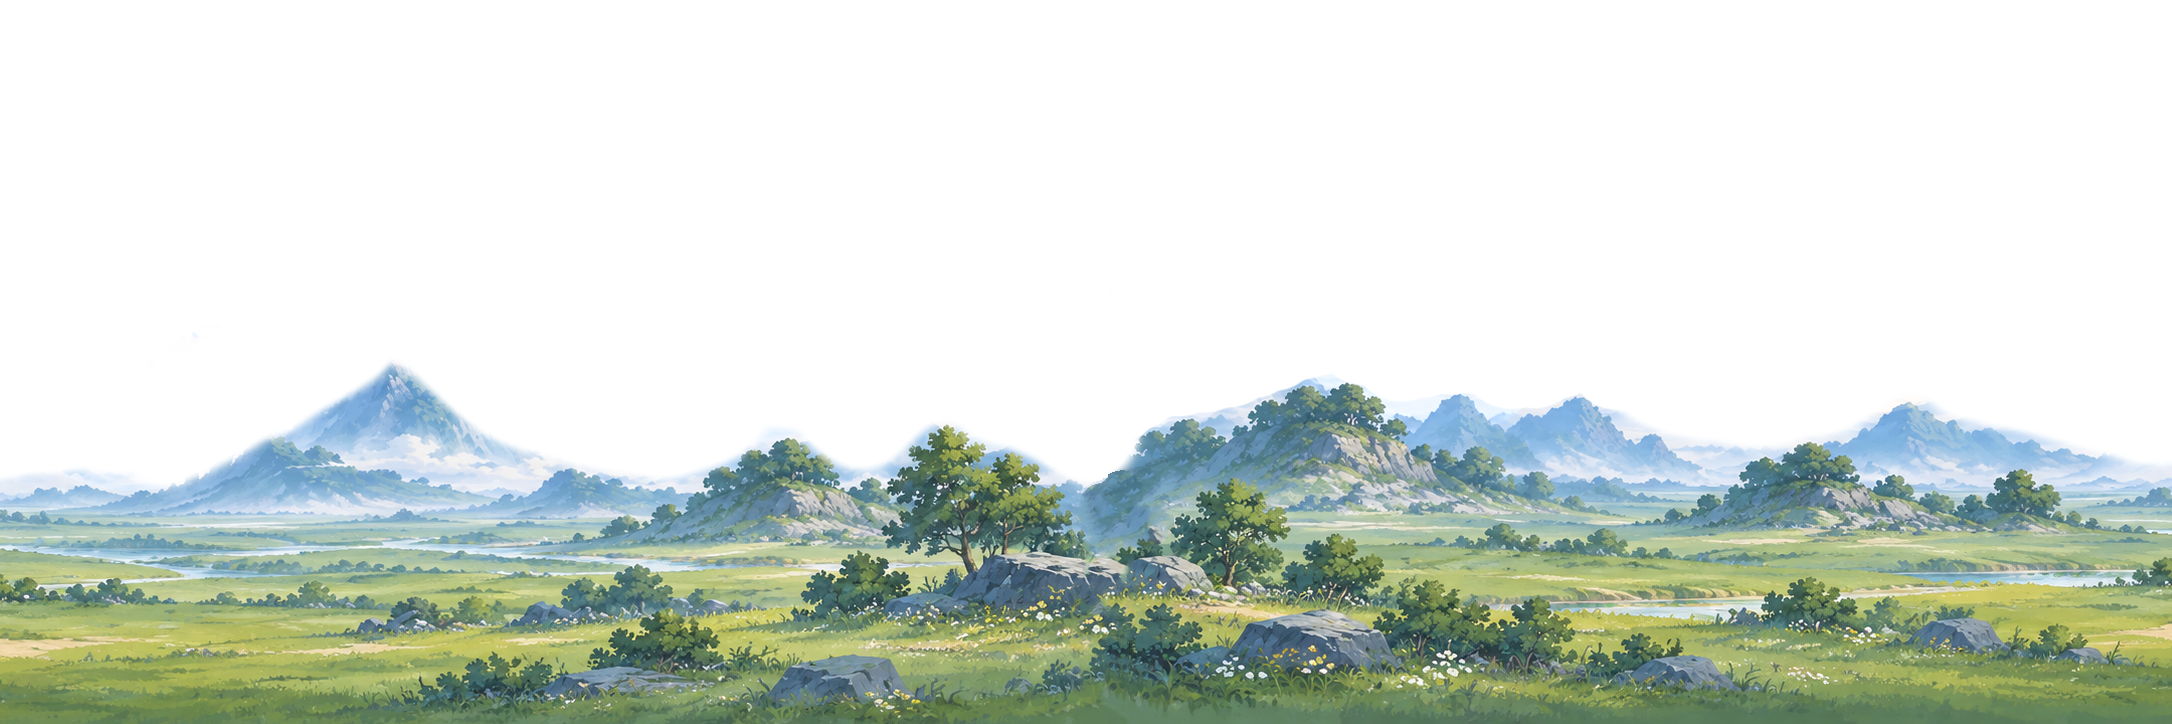
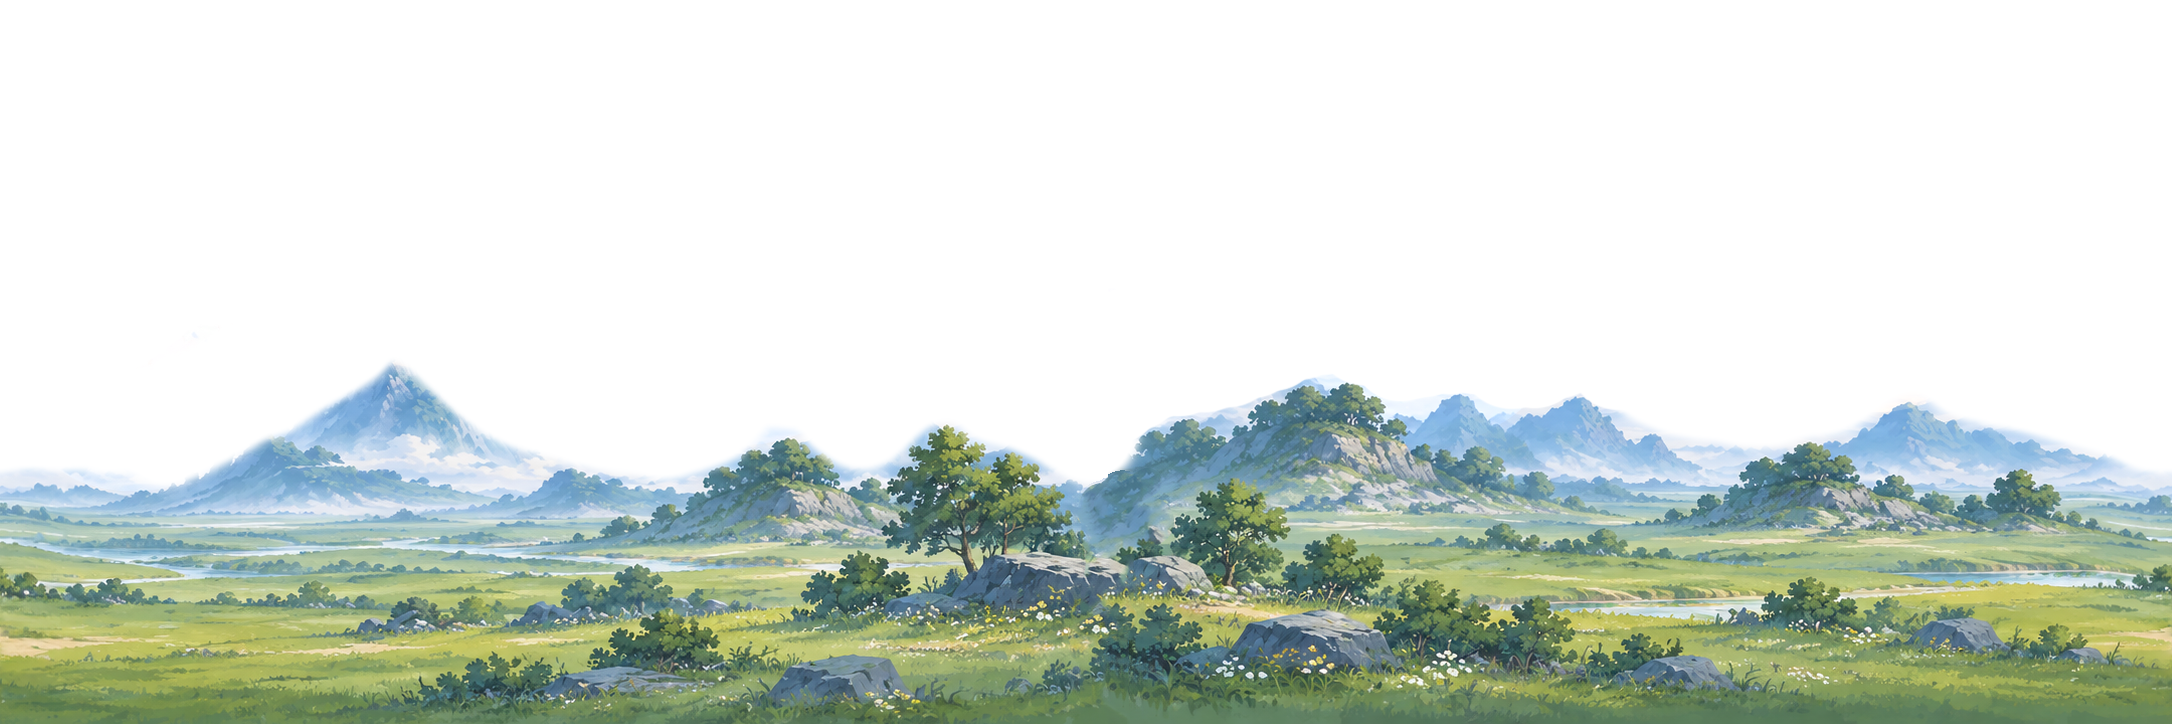
art: make Plains Ground2 seamless with reproducible edge correction

Changed region(s): [[0.9563, 0.6381, 1.0, 0.942], [0.0, 0.6685, 0.0308, 0.9116]]

diff --git a/Tools/make_plains_ground2_seamless.py b/Tools/make_plains_ground2_seamless.py
@@ -1,0 +1,312 @@
+#!/usr/bin/env python3
+"""Rebuild ONLY the approved runtime Plains/Ground2.png (Pillow + NumPy).
+
+Usage, from any directory:
+  python3 Tools/make_plains_ground2_seamless.py --write --proof-dir /tmp/ground2-proof
+  python3 Tools/make_plains_ground2_seamless.py --check
+
+Input is the pre-repair RUNTIME image in Git commit 115ff428..., not the
+unprocessed ArtSource PNG. Both inputs are hash-guarded. A shallow checkout can
+supply --input /path/to/the/pre-repair/runtime/Ground2.png instead; this must have
+exactly the approved input hash. The script never fetches or installs anything.
+
+Technique (no blur, mirrored/copied scenery or horizontal resampling):
+* Register the two alpha horizons at their half-opacity crossing. Shift only the
+  outer 96 columns per side, by at most 8 vertical pixels. A quintic envelope
+  returns the displacement to zero at the inner border and the bottom row.
+* In linear-light RGB, extend the common boundary correction into each strip by
+  solving discrete Laplace's equation, with zero correction at the inner border
+  and reflected vertical boundaries. High-frequency corrections decay rapidly;
+  this ADDS a smooth color field instead of low-pass filtering image detail.
+* Match the already registered alpha profiles, preserving the feathered outline.
+  Boundary RGBA columns are equal. All 1980 middle columns remain byte-identical.
+
+The input is 2172x724 RGBA; the output has the same canvas, mode and scale. No
+Unity code, metadata, other artwork or ArtSource file is written. There are no
+random choices. Quantitative/visual checks do not replace native Unity rendering.
+Validated with Python 3, NumPy 2.3.5 and Pillow 12.3.0. --check verifies decoded
+pixels as PNG encoding details can vary between Pillow/zlib versions.
+"""
+import argparse
+import hashlib
+import io
+import json
+from pathlib import Path
+import subprocess
+
+import numpy as np
+from PIL import Image, ImageDraw, ImageFont, __version__ as PILLOW_VERSION
+
+ROOT = Path(__file__).resolve().parents[1]
+ASSET = Path("Assets/Resources/Environment/Plains/Ground2.png")
+SOURCE = Path("Assets/StreamingAssets/ArtSource/Plains/Ground2.png")
+BASE_REVISION = "115ff428b9a2380fb4a71e08f3ccba07ca517dc7"
[2 lines of base64/hex data omitted]
+BAND = 96
+
+
+def sha256(data):
+    return hashlib.sha256(data).hexdigest()
+
+
+def require(condition, message):
+    if not condition:
+        raise RuntimeError(message)
+
+
+def baseline(input_path):
+    if input_path is None:
+        result = subprocess.run(
+            ["git", "show", f"{BASE_REVISION}:{ASSET.as_posix()}"], cwd=ROOT,
+            stdout=subprocess.PIPE, stderr=subprocess.PIPE, check=False)
+        require(result.returncode == 0,
+                "Baseline commit is unavailable. Supply --input with the original runtime PNG. "
+                "No file has been written.")
+        data = result.stdout
+    else:
+        data = input_path.read_bytes()
+    require(sha256(data) == INPUT_SHA256,
+            "Unrecognized baseline PNG: refusing to replace newer/different artwork.")
+    image = Image.open(io.BytesIO(data))
+    require(image.mode == "RGBA" and image.size == (2172, 724), "Unexpected input canvas/mode.")
+    return np.array(image), image.info.get("dpi")
+
+
+def smootherstep(t):
+    t = np.clip(t, 0.0, 1.0)
+    return t * t * t * (t * (t * 6.0 - 15.0) + 10.0)
+
+
+def to_linear(rgb):
+    return np.where(rgb <= .04045, rgb / 12.92, ((rgb + .055) / 1.055) ** 2.4)
+
+
+def to_srgb(rgb):
+    return np.where(rgb <= .0031308, 12.92 * rgb,
+                    1.055 * np.maximum(rgb, 0.0) ** (1.0 / 2.4) - .055)
+
+
+def harmonic_extension(boundary, width):
+    """Laplace correction: given x=0 boundary, zero at x=width-1, Neumann in y.
+
+    Mirror y to diagonalize the discrete vertical Laplacian with a real FFT.
+    For each frequency, the horizontal solution is sinh(lambda*(d-x))/sinh(lambda*d),
+    where cosh(lambda)=2-cos(omega). Its exponential form avoids overflow; the
+    zero-frequency solution is linear. This is not a blur of the source pixels.
+    """
+    height = len(boundary)
+    spectrum = np.fft.rfft(np.concatenate((boundary, boundary[::-1])), axis=0)
+    k = np.arange(height + 1)
+    lam = np.arccosh(2.0 - np.cos(np.pi * k / height))
+    x = np.arange(width)[None, :]
+    d = width - 1
+    ratio = np.empty((height + 1, width))
+    ratio[0] = 1.0 - x / d
+    frequency = lam[1:, None]
+    ratio[1:] = (np.exp(-frequency * x) * -np.expm1(-2.0 * frequency * (d - x)) /
+                 -np.expm1(-2.0 * frequency * d))
+    return np.fft.irfft(spectrum[:, None, :] * ratio[:, :, None],
+                        n=2 * height, axis=0)[:height]
+
+
+def register_strip(rgba, columns, shift, target_horizon):
+    """Vertical-only pull resampling in premultiplied linear RGB + alpha."""
+    height = rgba.shape[0]
+    weight = smootherstep(1.0 - np.arange(BAND) / (BAND - 1))
+    # Keep full registration around the feathered horizon and keep y=bottom fixed.
+    vertical = 1.0 - smootherstep(
+        (np.arange(height) - (target_horizon + 32)) / (height - 1 - target_horizon - 32))
+    sample_y = np.arange(height)[:, None] - shift * vertical[:, None] * weight[None, :]
+    low = np.floor(sample_y).astype(int)
+    fraction = (sample_y - low)[:, :, None]
+    low = np.clip(low, 0, height - 1)
+    high = np.minimum(low + 1, height - 1)
+    original = rgba[:, columns]
+    premultiplied = np.dstack((to_linear(original[:, :, :3]) * original[:, :, 3:4],
+                               original[:, :, 3]))
+    warped = (premultiplied[low, np.arange(BAND)[None, :]] * (1.0 - fraction) +
+              premultiplied[high, np.arange(BAND)[None, :]] * fraction)
+    alpha = warped[:, :, 3:4]
+    rgb = np.divide(warped[:, :, :3], alpha, out=np.zeros_like(warped[:, :, :3]), where=alpha > 0)
+    return rgb, alpha, columns, weight
+
+
+def reconstruct(raw):
+    height, width, _ = raw.shape
+    horizons = [int(np.flatnonzero(raw[:, edge, 3] >= 128)[0]) for edge in (0, width - 1)]
+    target = (sum(horizons) + 1) // 2
+    shifts = [target - horizon for horizon in horizons]
+    require(max(abs(shift) for shift in shifts) <= 8, "Horizon mismatch exceeds the approved small warp.")
+    rgba = raw.astype(np.float64) / 255.0
+    strips = [register_strip(rgba, np.arange(BAND), shifts[0], target),
+              register_strip(rgba, np.arange(width - 1, width - BAND - 1, -1), shifts[1], target)]
+    left_rgb, left_alpha, _, _ = strips[0]
+    right_rgb, right_alpha, _, _ = strips[1]
+    common_rgb = (left_rgb[:, 0] + right_rgb[:, 0]) / 2.0
+    common_alpha = (left_alpha[:, 0] + right_alpha[:, 0]) / 2.0
+    output = raw.copy()
+    clipped_visible_components = 0
+    for rgb, alpha, columns, weight in strips:
+        corrected = rgb + harmonic_extension(common_rgb - rgb[:, 0], BAND)
+        clipped_visible_components += int(np.count_nonzero(((corrected < 0) | (corrected > 1)) & (alpha > 0)))
+        colors = to_srgb(np.clip(corrected, 0, 1))
+        opacity = np.clip(alpha + (common_alpha - alpha[:, 0])[:, None, :] * weight[None, :, None], 0, 1)
+        output[:, columns] = np.rint(np.dstack((colors, opacity)) * 255).clip(0, 255).astype(np.uint8)
+    common = np.rint(np.column_stack((to_srgb(np.clip(common_rgb, 0, 1)), common_alpha)) * 255).clip(0, 255).astype(np.uint8)
+    output[:, 0] = common
+    output[:, -1] = common
+    # Fixed Dirichlet borders also preserve otherwise invisible source RGB.
+    output[:, BAND - 1] = raw[:, BAND - 1]
+    output[:, -BAND] = raw[:, -BAND]
+    return output, {"band_columns_per_side": BAND, "horizon_half_alpha_before": horizons,
+                    "horizon_shift_pixels_left_right": shifts, "horizon_half_alpha_target": target,
+                    "clipped_visible_rgb_components": clipped_visible_components}
+
+
+def measure(raw):
+    values = raw.astype(np.float64)
+    premultiplied = values[:, :, :3] * values[:, :, 3:4] / 255.0
+    rgb = np.abs(values[:, 0, :3] - values[:, -1, :3])
+    alpha = np.abs(values[:, 0, 3] - values[:, -1, 3])
+    column_jump = np.abs(premultiplied[:, 1:] - premultiplied[:, :-1]).mean(axis=(0, 2))
+    edge_alpha = []
+    for x in (0, raw.shape[1] - 1):
+        edge_alpha.append({str(level): int(np.flatnonzero(raw[:, x, 3] >= level)[0])
+                           for level in (1, 128, 255)})
+    return {"edge_rgb_mae": float(rgb.mean()), "edge_rgb_mae_per_channel": rgb.mean(axis=0).tolist(),
+            "edge_rgb_max_difference": int(rgb.max()), "edge_alpha_mae": float(alpha.mean()),
+            "edge_alpha_max_difference": int(alpha.max()), "edge_alpha_mismatched_rows": int(np.count_nonzero(alpha)),
+            "edge_premultiplied_rgb_mae": float(np.abs(premultiplied[:, 0] - premultiplied[:, -1]).mean()),
+            "max_interior_column_jump": float(column_jump.max()),
+            "neighbor_column_jump_left_right": [float(column_jump[0]), float(column_jump[-1])],
+            "alpha_crossing_rows_left_right": edge_alpha}
+
+
+def validate(before, after, processing):
+    require(after.shape == before.shape and after.dtype == np.uint8, "Canvas/dtype changed.")
+    require(np.array_equal(after[:, 0], after[:, -1]), "RGBA edges do not match.")
+    require(np.array_equal(before[:, BAND:-BAND], after[:, BAND:-BAND]), "Protected middle artwork changed.")
+    require(np.array_equal(before[:, BAND - 1], after[:, BAND - 1]) and
+            np.array_equal(before[:, -BAND], after[:, -BAND]), "Inner strip boundaries changed.")
+    require(processing["clipped_visible_rgb_components"] == 0, "Visible colors would clip; reject instead of hiding detail.")
+    old, new = measure(before), measure(after)
+    require(new["max_interior_column_jump"] <= old["max_interior_column_jump"],
+            "Processing introduced a stronger interior vertical step than the original artwork.")
+    require(new["edge_alpha_mismatched_rows"] == 0 and new["edge_rgb_max_difference"] == 0,
+            "Seam statistics did not converge.")
+    return old, new
+
+
+def encode(raw, dpi):
+    stream = io.BytesIO()
+    options = {"dpi": dpi} if dpi else {}
+    Image.fromarray(raw).save(stream, format="PNG", compress_level=9, **options)
+    return stream.getvalue()
+
+
+def proof_directory(folder):
+    folder = folder.resolve()
+    # Proofs belong outside Unity's import tree. Never risk an ArtSource output.
+    for directory in (ROOT / "Assets", ROOT / "Packages", ROOT / "ProjectSettings"):
+        require(folder != directory.resolve() and directory.resolve() not in folder.parents,
+                "Choose a proof directory outside Assets/Packages/ProjectSettings.")
+    return folder
+
+
+def proof_images(folder, before, after, report):
+    folder = proof_directory(folder)
+    folder.mkdir(parents=True, exist_ok=True)
+    height, width, _ = before.shape
+    panels = []
+    for name, raw in (("before", before), ("after", after)):
+        repeated = Image.new("RGBA", (width * 3, height))
+        image = Image.fromarray(raw)
+        for index in range(3):
+            repeated.paste(image, (index * width, 0))
+        repeated.save(folder / (name + "-3tiles.png"))
+        underlay = Image.new("RGBA", repeated.size, (96, 112, 128, 255))
+        underlay.alpha_composite(repeated)
+        panels.append(underlay.convert("RGB"))
+    comparison = Image.new("RGB", (width * 3, 2 * height + 96), (32, 40, 48))
+    draw = ImageDraw.Draw(comparison)
+    font = ImageFont.load_default(size=28)
+    for index, (name, panel) in enumerate(zip(("BEFORE - 3 tiles", "AFTER - 3 tiles"), panels)):
+        y = index * (height + 48)
+        draw.text((12, y + 8), name, fill="white", font=font)
+        for join in (width, width * 2):
+            draw.text((join - 32, y + 8), "JOIN", fill=(255, 220, 100), font=font)
+        comparison.paste(panel, (0, y + 48))
+    comparison.save(folder / "comparison-3tiles.png")
+    previews = []
+    for panel in panels:
+        panel = panel.copy()
+        panel.thumbnail((1800, 500))
+        previews.append(panel)
+    preview_height = previews[0].height
+    preview = Image.new("RGB", (1800, 2 * (preview_height + 32)), (32, 40, 48))
+    draw = ImageDraw.Draw(preview)
+    for index, panel in enumerate(previews):
+        y = index * (preview_height + 32)
+        draw.text((10, y + 5), ("BEFORE - 3 tiles", "AFTER - 3 tiles")[index],
+                  fill="white", font=ImageFont.load_default(size=18))
+        for join in (600, 1200):
+            draw.text((join - 22, y + 5), "JOIN", fill=(255, 220, 100), font=ImageFont.load_default(size=18))
+        preview.paste(panel, (0, y + 32))
+    preview.save(folder / "comparison-overview.png")
+    extent, top = 224, 420
+    detail = Image.new("RGB", (extent * 4, height - top + 32), (32, 40, 48))
+    draw = ImageDraw.Draw(detail)
+    for index, panel in enumerate(panels):
+        draw.text((index * extent * 2 + 8, 8), ("BEFORE", "AFTER")[index] + " - native pixels",
+                  fill="white", font=ImageFont.load_default(size=16))
+        detail.paste(panel.crop((width - extent, top, width + extent, height)), (index * extent * 2, 32))
+    detail.save(folder / "comparison-detail.png")
+    (folder / "metrics.json").write_text(json.dumps(report, indent=2) + "\n")
+
+
+def main():
+    parser = argparse.ArgumentParser(description=__doc__, formatter_class=argparse.RawDescriptionHelpFormatter)
+    mode = parser.add_mutually_exclusive_group()
+    mode.add_argument("--write", action="store_true", help="Write only the approved runtime PNG, after all quality gates.")
+    mode.add_argument("--check", action="store_true", help="Rebuild in memory and compare current runtime pixels; no asset writes.")
+    parser.add_argument("--input", type=Path, help="Optional original runtime PNG (exact baseline hash required).")
+    parser.add_argument("--proof-dir", type=Path, help="Write native-resolution three-tile comparisons and metrics here.")
+    args = parser.parse_args()
+    if args.proof_dir:
+        args.proof_dir = proof_directory(args.proof_dir)
+    source = ROOT / SOURCE
+    require(source.is_file() and sha256(source.read_bytes()) == SOURCE_SHA256,
+            "ArtSource is missing or changed. Refuse to process until its provenance is reviewed.")
+    target = ROOT / ASSET
+    require(not target.is_symlink() and target.resolve() != source.resolve(), "Unsafe runtime destination.")
+    before, dpi = baseline(args.input)
+    after, processing = reconstruct(before)
+    old_metrics, new_metrics = validate(before, after, processing)
+    if args.write:
+        current_hash = sha256(target.read_bytes())
+        current_pixels = np.array(Image.open(target).convert("RGBA"))
+        require(current_hash == INPUT_SHA256 or np.array_equal(current_pixels, after),
+                "Runtime differs from both the approved baseline and reconstruction; refusing overwrite.")
+        target.write_bytes(encode(after, dpi))
+    elif args.check:
+        image = Image.open(target)
+        require(image.mode == "RGBA" and image.size == (2172, 724), "Runtime canvas/mode changed.")
+        require(np.array_equal(np.array(image), after), "Runtime pixels differ from the deterministic reconstruction.")
+    require(sha256(source.read_bytes()) == SOURCE_SHA256, "ArtSource integrity check failed.")
+    report = {"input_revision": BASE_REVISION, "input_runtime_sha256": INPUT_SHA256,
+              "source_unchanged_sha256": SOURCE_SHA256, "dimensions": [after.shape[1], after.shape[0]],
+              "processing": processing, "before": old_metrics, "after": new_metrics,
+              "protected_middle_columns": after.shape[1] - 2 * BAND,
+              "protected_middle_percent": (after.shape[1] - 2 * BAND) * 100.0 / after.shape[1],
+              "changed_visible_pixels": int(np.count_nonzero((before != after).any(axis=2) & (before[:, :, 3] > 0))),
+              "output_pixel_sha256": sha256(after.tobytes()),
+              "numpy_version": np.__version__, "pillow_version": PILLOW_VERSION,
+              "action": "wrote runtime" if args.write else "checked runtime" if args.check else "preview only"}
+    if args.proof_dir:
+        proof_images(args.proof_dir, before, after, report)
+    print(json.dumps(report, indent=2))
+
+
+if __name__ == "__main__":
+    main()
